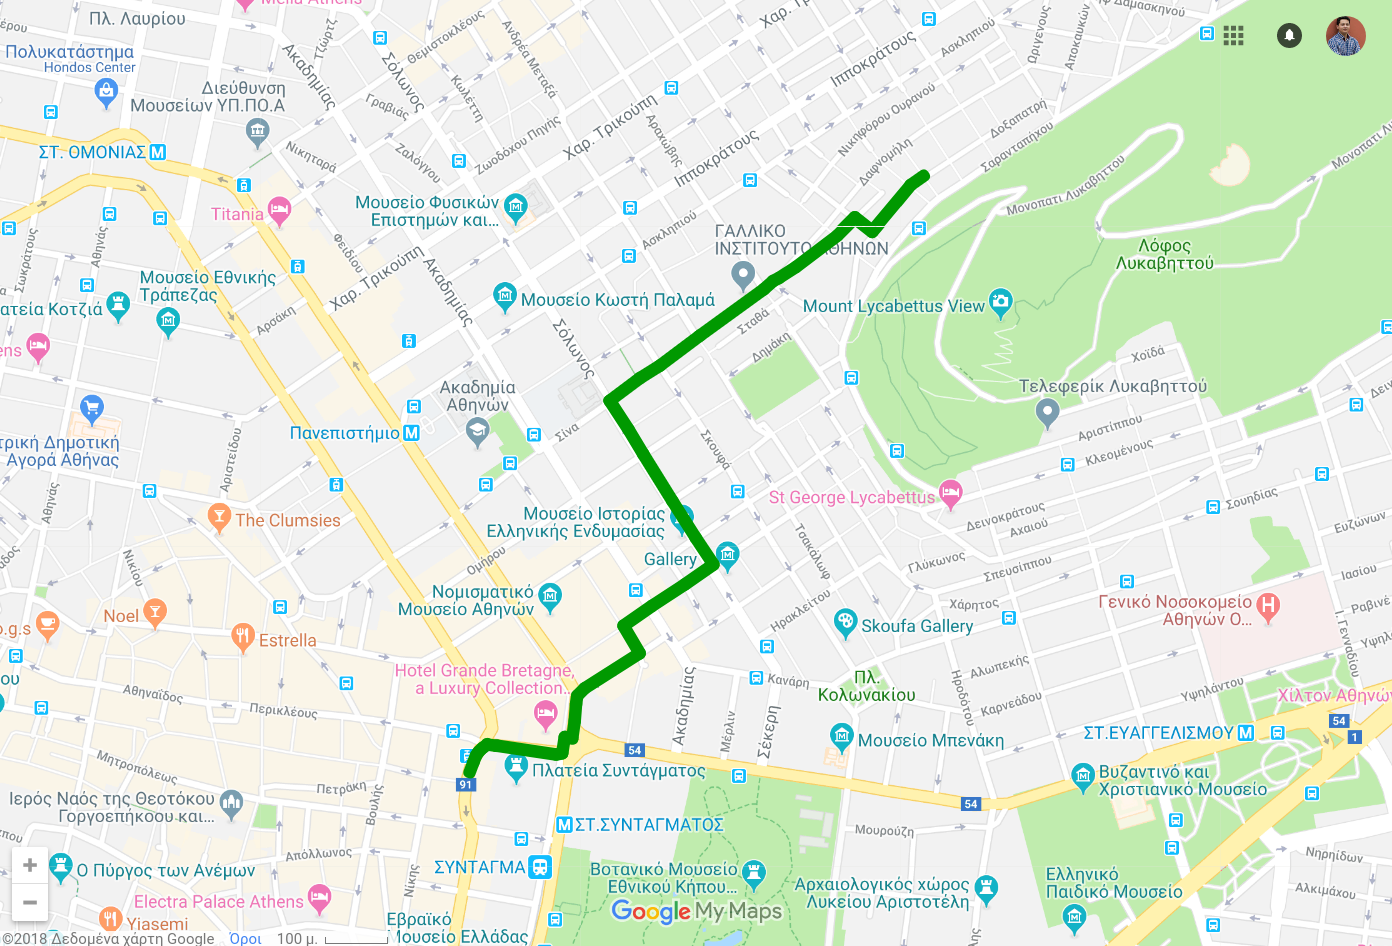
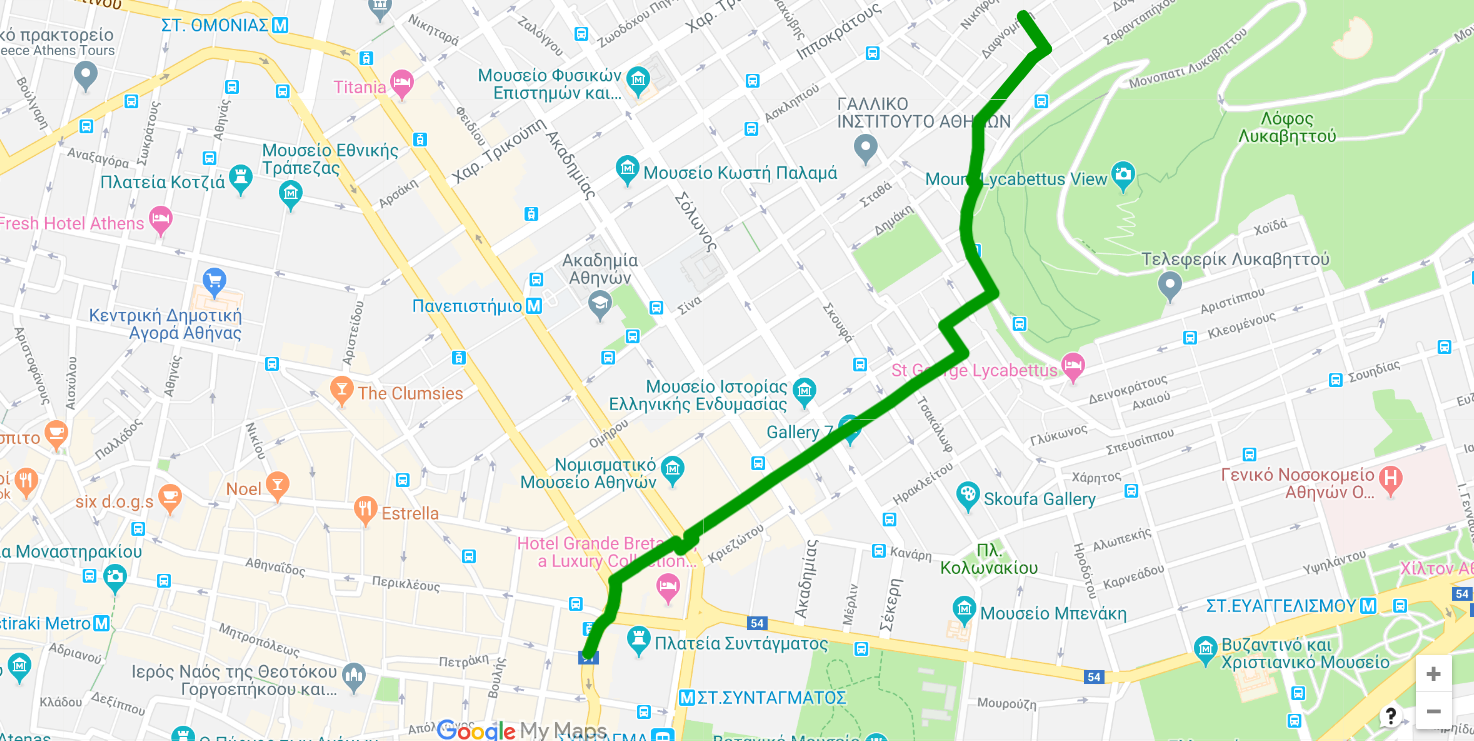
Added more in report

diff --git a/lab1/resources/report/report.tex b/lab1/resources/report/report.tex
@@ -34,7 +34,7 @@
 
 
 \title{ \textbf{Τεχνητή Νοημοσύνη}  \\ 1o Προγραμματιστικό Θέμα \\ Αναφορά Εργασίας \\ \small{Ακ. Έτος 2018-2018}}
-\author{\textbf{Μέλη ομάδας} \\ Εμμανουήλ Παναγιώτου (03115079) -- \texttt{el15079@mail.ntua.gr} \\  Μάριος Παπαχρήστου (03115101) -- \texttt{papachristoumarios@gmail.com} \\ \noindent\rule{0.9\textwidth}{1pt}}
+\author{\textbf{Μέλη ομάδας (αλφαβητικά)} \\ Εμμανουήλ Παναγιώτου (03115079) -- \texttt{el15079@mail.ntua.gr} \\  Μάριος Παπαχρήστου (03115101) -- \texttt{papachristoumarios@gmail.com} \\ \noindent\rule{0.9\textwidth}{1pt}}
 \date{\emph{"It's going to be interesting to see how society deals with artificial intelligence, but it will definitely be cool". --Colin Angle}} 
 
 
@@ -53,7 +53,11 @@
 
 \section{Δημιουργία Γραφήματος}
 
-Η δημιουργία του γράφου γίνεται στον constructor της κλάσης (Graph). Στόχος είναι να παράξουμε μια λίστα από αντικέιμενα (Node). Κάθε Node αντιστοιχεί (μέσω των atributes x, y) σε μια συντεταγμένη και περιέχει μια λίστα απο Edges (adjacent) που αντιστοιχούν στις ακμές του Node. Αρχικά διατρέχουμε το αρχείο csv παράγοντας έτσι αντικείμενα Point. Σε κάθε συντεταγμένη υπάρχει περίπτωση (αν είναι διασταύρωση) να αντιστοιχούν πολλά αντικείμενα Point όμως θέλουμε αυτά να αντιστοιχούν σε ένα μοναδικό Node στον γράφο. Έτσι δημιουργείται η ανάγκη για δύο Hashtables (nodesMap, pointsMap) τα οποία αντιστοιχούν , ένα Node σε πολλά Points και ένα Point σε ένα Node αντίστοιχα. Επίσης για να δημιουργούμε ένα Node για κάθε συντεταγμένη κρατάμε ένα Set από όλα τα Nodes. Έτσι όταν πετύχουμε μια συντεταγμένη πολλές φορές, θα δημιουργηθέι ένα μοναδικό αντικείμενο Node για αυτήν. Έχοντας όσα χρειαζόμαστε, διατρέχουμε την λίστα όλων των Points και για κάθε Point βρίσκουμε το Node στο οποίο αυτό αντιστοιχεί (pointsMap). Έπειτα πηγαίνοντας μια θέση πίσω και μία μπροστά στην λίστα με τα Points, γνωρίζουμε ότι αυτά τα δύο είναι γείτονες του Point στο οποίο βρισκόμαστε. Οπότε ελέγχουμε αν βρίσκονται στην ίδια οδό, βρίσκουμε τα αντίστοιχα previous Node και next Node (πάλι μέσω του pointsMap), φτιάχνουμε αντικείμενα Edge από το Node που βρισκόμαστε στο previous και next, και τις προσθέτουμε στην λίστα adjacent του Node που βρισκόμαστε. Συνεχίζοντας αυτή τη διαδικασία για όλα τα δεδομένα εισόδου, φτιάχνουμε την λίστα από Nodes που χρειαζόμαστε. Κάθε Node μέσω της λίστας adjacent δείχνει στους Nodes γείτονες του.
+Η δημιουργία του γράφου γίνεται στον constructor της κλάσης (Graph). Στόχος είναι να παράξουμε μια λίστα από αντικέιμενα (Node). Κάθε Node αντιστοιχεί (μέσω των atributes x, y) σε μια συντεταγμένη και περιέχει μια λίστα απο Edges (adjacent) που αντιστοιχούν στις ακμές του Node. Αρχικά διατρέχουμε το αρχείο csv παράγοντας έτσι αντικείμενα Point. Σε κάθε συντεταγμένη υπάρχει περίπτωση (αν είναι διασταύρωση) να αντιστοιχούν πολλά αντικείμενα Point όμως θέλουμε αυτά να αντιστοιχούν σε ένα μοναδικό Node στον γράφο. Έτσι δημιουργείται η ανάγκη για δύο Hashtables (nodesMap, pointsMap) τα οποία αντιστοιχούν , ένα Node σε πολλά Points και ένα Point σε ένα Node αντίστοιχα. Επίσης για να δημιουργούμε ένα Node για κάθε συντεταγμένη κρατάμε ένα Set από όλα τα Nodes. Έτσι όταν πετύχουμε μια συντεταγμένη πολλές φορές, θα δημιουργηθέι ένα μοναδικό αντικείμενο Node για αυτήν. Έχοντας όσα χρειαζόμαστε, διατρέχουμε την λίστα όλων των Points και για κάθε Point βρίσκουμε το Node στο οποίο αυτό αντιστοιχεί (pointsMap). Έπειτα πηγαίνοντας μια θέση πίσω και μία μπροστά στην λίστα με τα Points, γνωρίζουμε ότι αυτά τα δύο είναι γείτονες του Point στο οποίο βρισκόμαστε. Οπότε ελέγχουμε αν βρίσκονται στην ίδια οδό, βρίσκουμε τα αντίστοιχα previous Node και next Node (πάλι μέσω του pointsMap), φτιάχνουμε αντικείμενα Edge από το Node που βρισκόμαστε στο previous και next, και τις προσθέτουμε στην λίστα adjacent του Node που βρισκόμαστε. Συνεχίζοντας αυτή τη διαδικασία για όλα τα δεδομένα εισόδου, φτιάχνουμε την λίστα από Nodes που χρειαζόμαστε. Κάθε Node μέσω της λίστας adjacent δείχνει στους Nodes γείτονες του. Το μήκος κάθε ακμής $\{u, v\} \in E$ τίθεται ίσο με την γεωγραφική απόσταση σε km δηλαδή 
+
+$$w(u, v) = \mathrm{geo}(u, v) = 111.18957696 \times \arccos \left [ \sin \phi_u \sin \phi_v + \cos \phi_u \cos \phi_v \cos (\theta_u - \theta_v) \right ]$$
+
+
 
 \section{Αλγόριθμος Α*}
 
@@ -66,15 +70,16 @@
 
 $$h(v) = \min_{g \in G} h_g(v)$$
 
-όπου $G = \{ g \in V \mid g \text{ στόχος} \}$ με $$h_g(v) = \frac {|v.x - g.x | + |v.y - g.y |} {\sqrt 2}$$
+όπου $G = \{ g \in V \mid g \text{ στόχος} \}$ με $$h_g(v) = \frac 1 {\sqrt 2} \mathrm{geo}(v, g)$$
  
-Για να επιστρέψει σωστά αποτελέσματα ο Α* θα πρέπει η ευριστική συνάρτηση να υποεκτιμά το πραγματικό κόστος $\delta (v \to t)$. Θεωρώντας ότι σε κάθε σημείο μπορούμε να κινηθούμε το πολύ σε 4 κατευθύνσεις διαλέξαμε τη νόρμα $L_1$. Άλλη επιλογή θα μπορούσε να αποτελέσει η $L_\infty$--νόρμα ή κάποιος συνδυασμός μεταξύ των δύο.  
-
+Για να επιστρέψει σωστά αποτελέσματα ο Α* θα πρέπει η ευριστική συνάρτηση να υποεκτιμά το πραγματικό κόστος $\delta (v \to t)$. 
 \subsection{Αποθήκευση Διαδρομών} 
 
 Για να τηρήσουμε τις διαδρομές χρησιμοποιούμε ένα \texttt{Hashtable<Node, Stack<Pair>>} και σε κάθε relaxation προσθέτουμε στη στοίβα την τιμή που βρίσκουμε (η οποία μικραίνει συνεχώς) αφού αφαιρέσουμε πρώτα οποιαδήποτε μεγαλύτερη τιμή. Ο πίνακας κατακερματισμού θα χρησιμεύσει στην εκτύπωση των συντομότερων διαδρομών. Ο κατευθυνόμενος υπολειμματικός γράφος $H$ είναι DAG. Κάνοντας μια αναζήτηση από την κορυφή--στόχο στην αρχή μπορούμε να φτιάξουμε το γράφημα των ισοδύναμων βέλτιστων διαδρομών για τις τιμές των εκτιμήσεων της πραγματικής απόστασης του κάθε κόμβου σε κάθε χρονική στιγμή με τη βέλτιστη (συγκλίνουσα) εκτίμηση. 
 
 \section{Αποτελέσματα}
+
+\subsection{Testcase Άσκησης} 
 
 Ο χάρτης για την αποτίμηση των αποτελεσμάτων βρίσκεται εδώ:
 \url{https://drive.google.com/open?id=1YxWv5TfQ8e8Q4oBy8NvlUeZeGtOheg1Z&usp=sharing}
@@ -83,11 +88,23 @@ $$h(v) = \min_{g \in G} h_g(v)$$
 \begin{figure}[H]
     \centering
     \includegraphics[scale=0.3]{example.png}
-    \caption{Αποτέλεσμα για το παράδειγμα}
+    \caption{Αποτέλεσμα για το παράδειγμα από το kml}
     \label{fig:my_label}
 \end{figure}
 
+Από το Google Maps αναζητήσαμε την ίδια διαδρομή και λάβαμε το ίδιο αποτέλεσμα
 
+\begin{figure}[H]
+    \centering
+    \includegraphics[scale=0.25]{correct.png}
+    \caption{Αποτέλεσμα για το παράδειγμα από Google Maps}
+    \label{fig:my_label}
+\end{figure}
+
+Τα μήκη και των δύο διαδρομών είναι 1.385 km όπως και στην διαδρομή που προτείνει το Google Maps. Το kml αρχείο βρίσκεται στο \texttt{original.kml}. 
+
+
+\subsection{Επιπλέον Testcases}
 
 \begin{thebibliography}{9}
 
